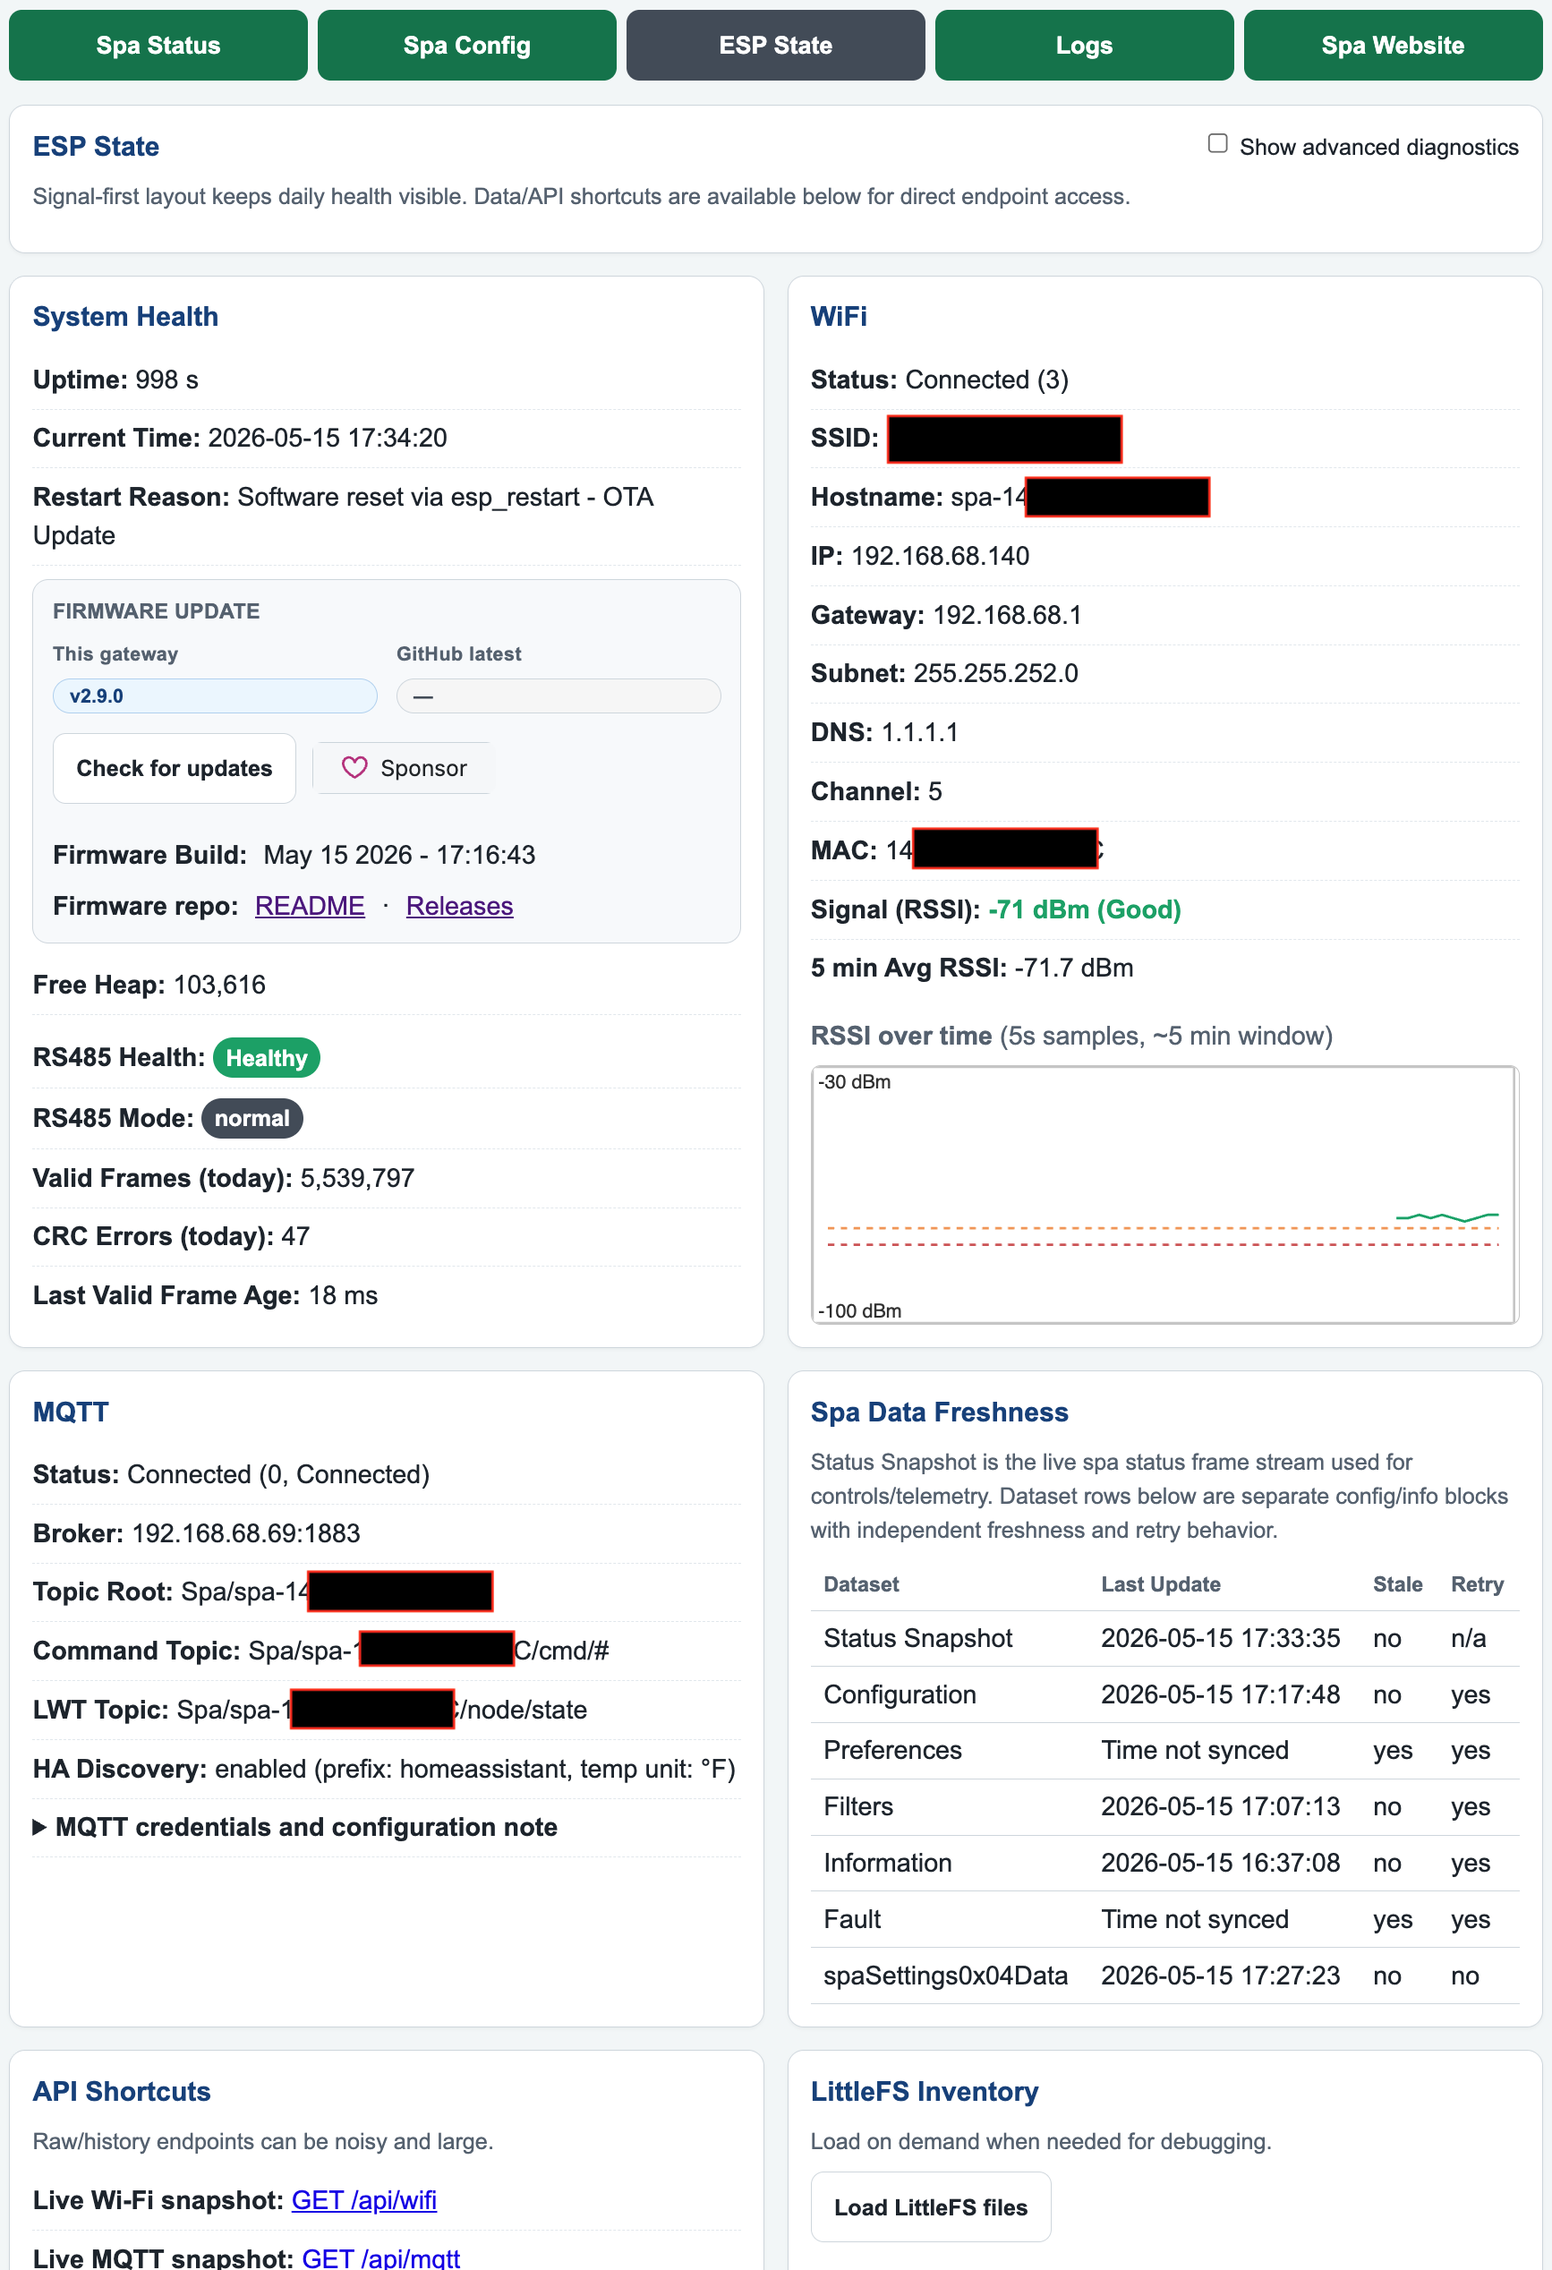
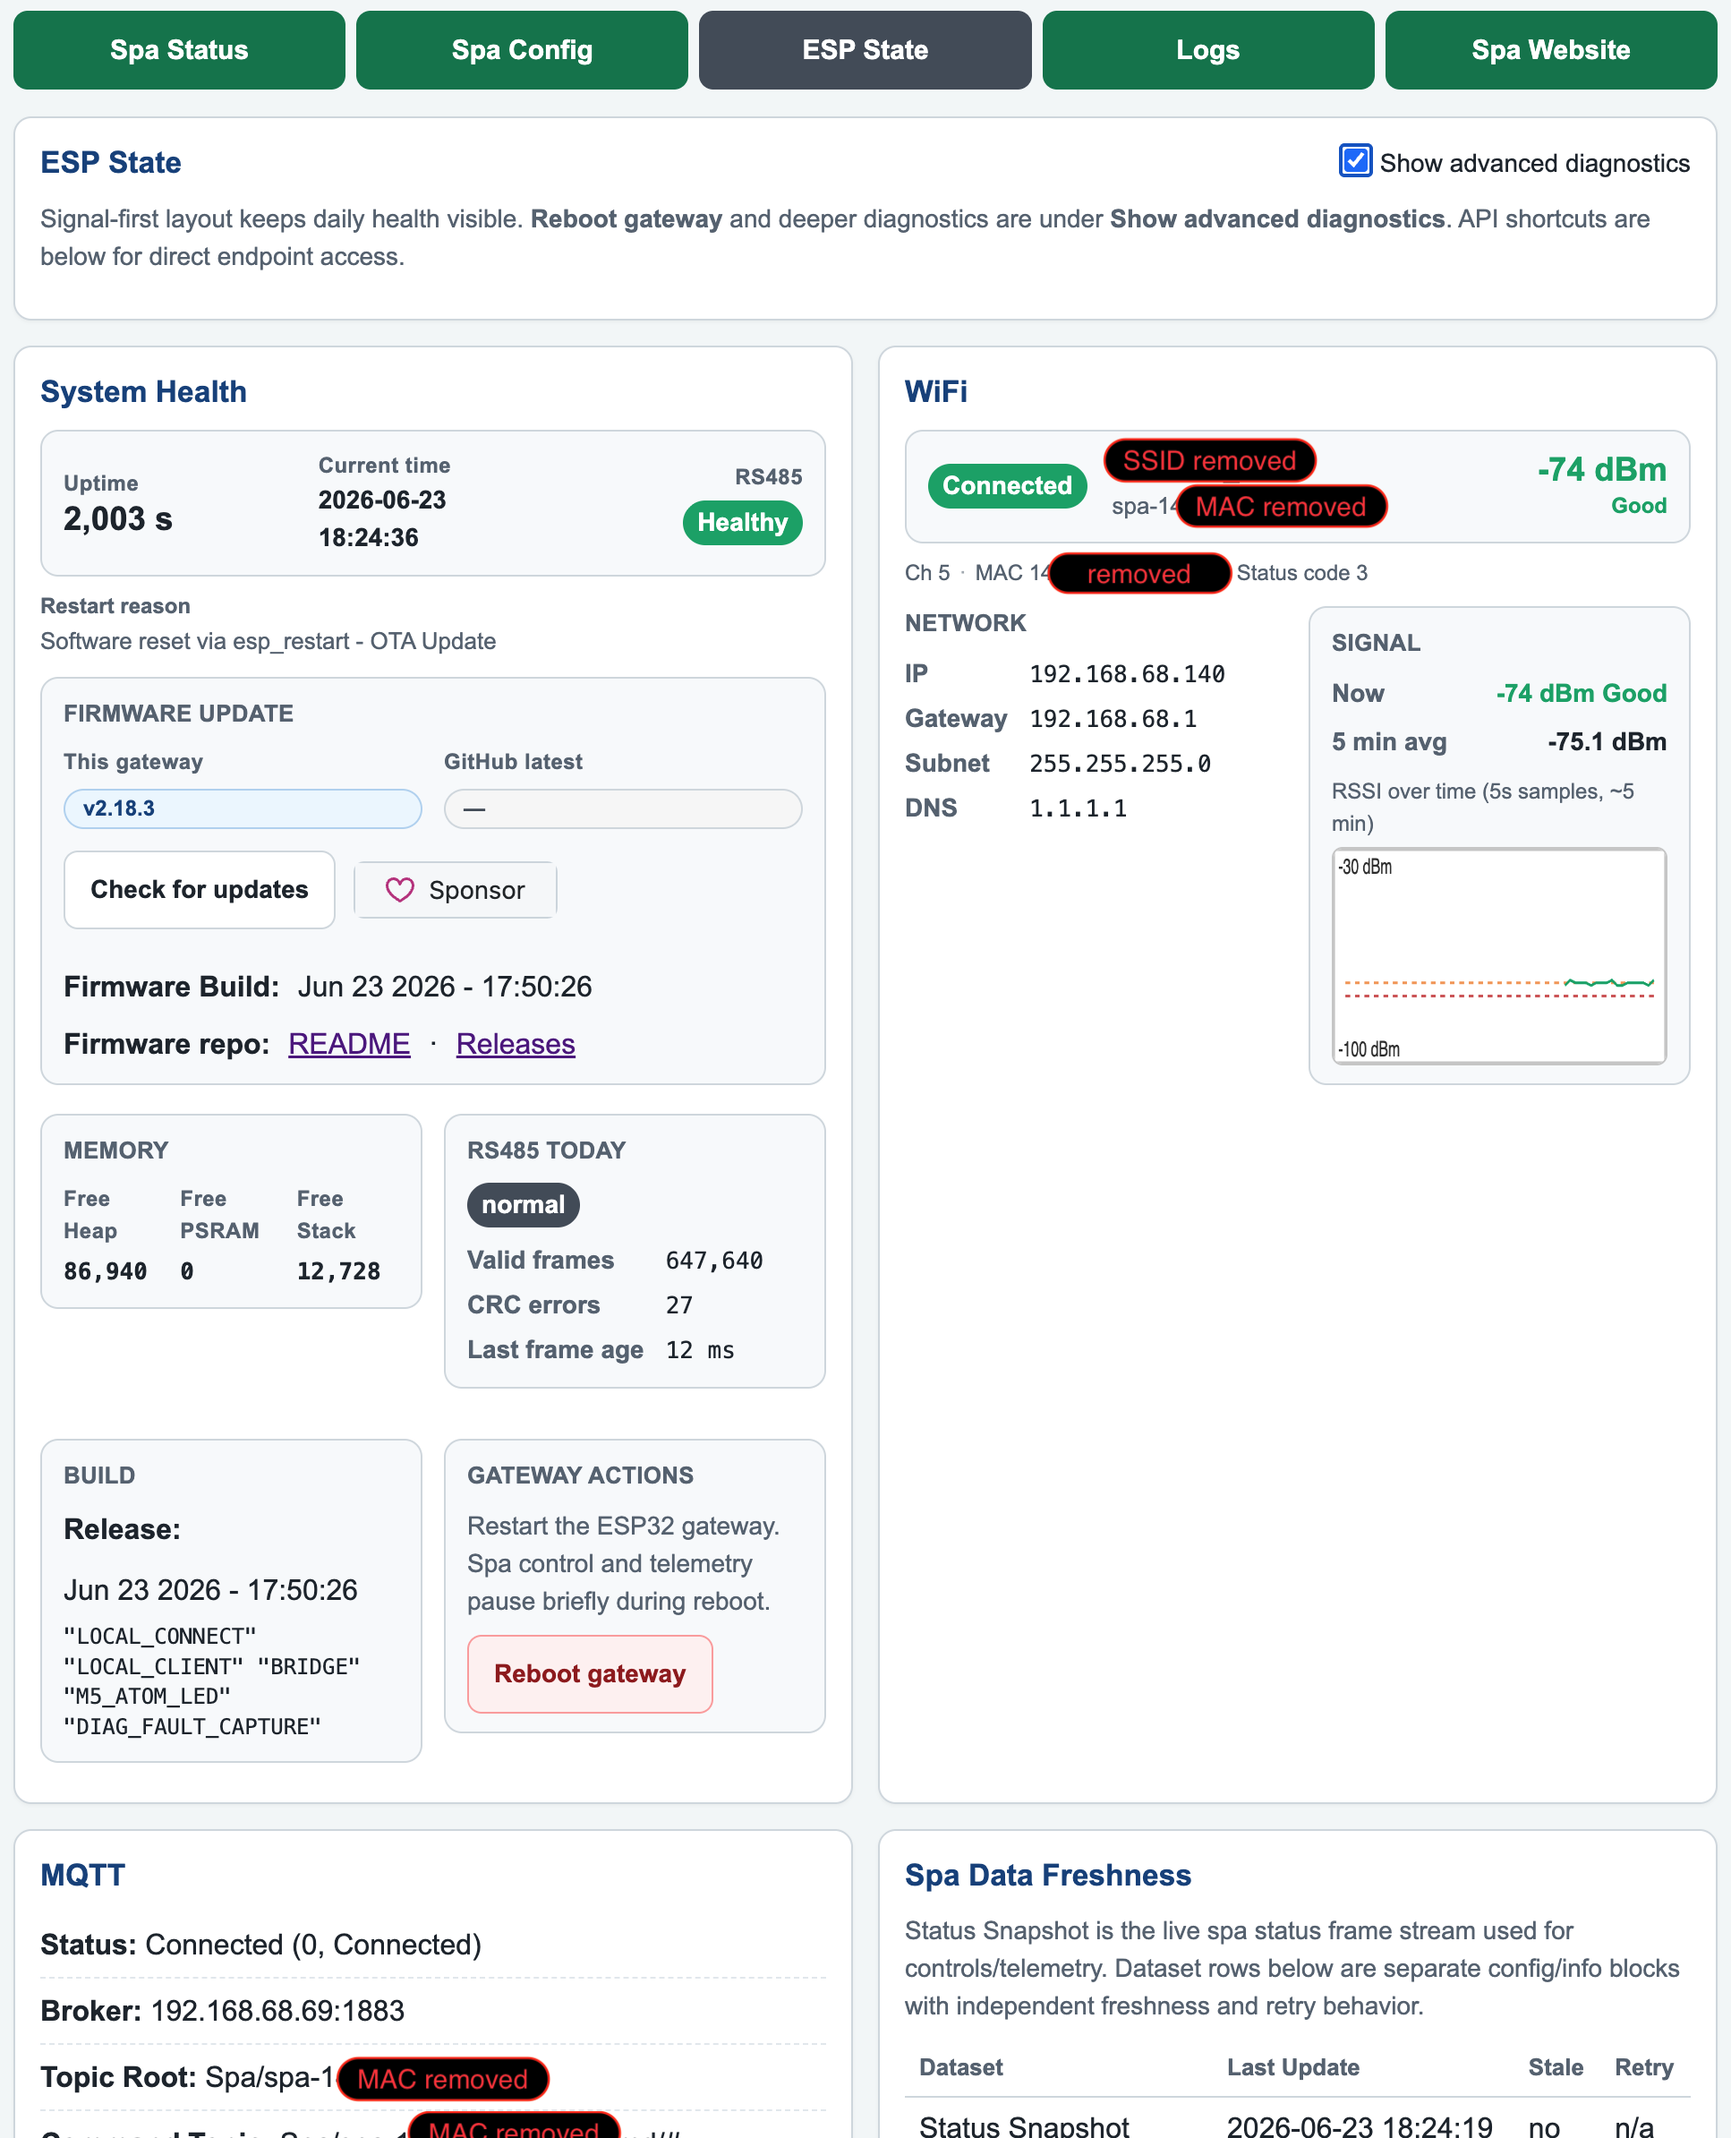
docs: reorganize README.md to improve clarity and structure
Moved the ePaper remote display section to follow the web interface section for better flow. Updated the web interface section to include a new heading for screenshots and clarified the status of the LittleFS SPA bundle. Adjusted the layout for improved readability. Updated binary images in the docs for spa configuration and status.

diff --git a/README.md b/README.md
@@ -116,25 +116,11 @@ Planned or deferred enhancements (not commitments; order and timing vary).
 
 ---
 
-## ePaper remote display (optional)
-
-![ePaper display example](docs/ePaper-Sept2024.jpeg)
-
-Display builds use the [LilyGo T5 ePaper](https://www.lilygo.cc/en-ca/products/t5-4-7-inch-e-paper-v2-3?srsltid=AfmBOopva5B_jxFAsa86Fn75lR66ZpcsqNLJEqPG4Axu8zeuCEEeqI0D). **Note:** upstream ePaper development has stalled because a reference device [stopped working](https://github.com/Xinyuan-LilyGO/LilyGo-EPD47/issues/137); treat this path as best-effort.
-
----
-
 ## Web interface
-
-Credit for the SPA web app: [jozefnad/balboa-spa](https://github.com/jozefnad/balboa-spa) (this repo pins a fork as a submodule — see [Build with PlatformIO](#build-with-platformio)).
-
-![Web UI example](docs/balboa-spa-web.png)
-
-**Status:** Firmware-served **`/status`** includes **wired** equipment, temperature, panel-clock, and **12h/24h format** controls (SCI **`Button`** / **`SetTemp`** / **`SystemTime`** / **`TimeFormat`** to the spa over RS485). **`/config`** supports **filter schedule editing** and **JSON backup/restore**. The **LittleFS** `balboa-spa` bundle uses the same SCI **`Filters`** paths for filter read/write; other control surfaces may still differ from upstream — treat as **read-first** unless you verify them for your build.
 
 **Layout:** Firmware-served pages `/status`, `/config`, and `/state` use a responsive layout (viewport scaling, wrapping nav, fluid charts/images) for phone-sized screens.
 
-### Screenshots
+### Screenshots — firmware portal
 
 #### Spa status (`/status`)
 
@@ -165,6 +151,22 @@ Credit for the SPA web app: [jozefnad/balboa-spa](https://github.com/jozefnad/ba
 | `/api/config/filter` | — | Filter 1/2 schedule (`ready`, `lastUpdate`, start/duration fields). **POST** JSON body applies via **`spaSetFilterCycles`**. |
 | `/api/config/export` | — | Download spa config JSON (`writable` + `snapshot` + `readiness`). |
 | `/api/config/import` | — | **POST** JSON to preview (`dryRun: true`) or apply writable settings; optional **`force`** for identity mismatch. |
+
+### LittleFS SPA bundle (optional)
+
+Credit for the SPA web app: [jozefnad/balboa-spa](https://github.com/jozefnad/balboa-spa) (this repo pins a fork as a submodule — see [Build with PlatformIO](#build-with-platformio)).
+
+![Web UI example](docs/balboa-spa-web.png)
+
+**Status:** Firmware-served **`/status`** includes **wired** equipment, temperature, panel-clock, and **12h/24h format** controls (SCI **`Button`** / **`SetTemp`** / **`SystemTime`** / **`TimeFormat`** to the spa over RS485). **`/config`** supports **filter schedule editing** and **JSON backup/restore**. The **LittleFS** `balboa-spa` bundle uses the same SCI **`Filters`** paths for filter read/write; other control surfaces may still differ from upstream — treat as **read-first** unless you verify them for your build.
+
+---
+
+## ePaper remote display (optional)
+
+![ePaper display example](docs/ePaper-Sept2024.jpeg)
+
+Display builds use the [LilyGo T5 ePaper](https://www.lilygo.cc/en-ca/products/t5-4-7-inch-e-paper-v2-3?srsltid=AfmBOopva5B_jxFAsa86Fn75lR66ZpcsqNLJEqPG4Axu8zeuCEEeqI0D). **Note:** upstream ePaper development has stalled because a reference device [stopped working](https://github.com/Xinyuan-LilyGO/LilyGo-EPD47/issues/137); treat this path as best-effort.
 
 ---
 
